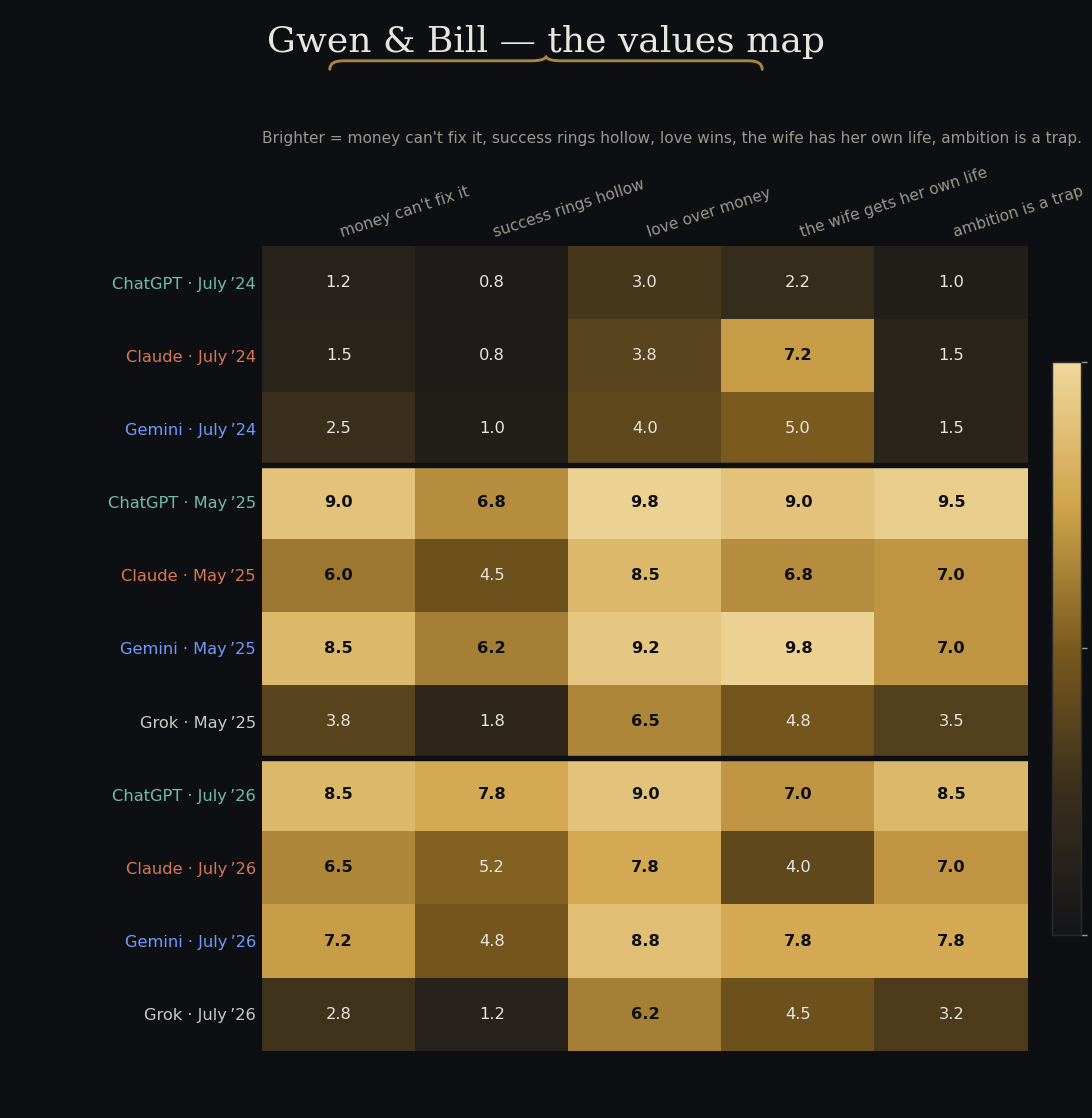
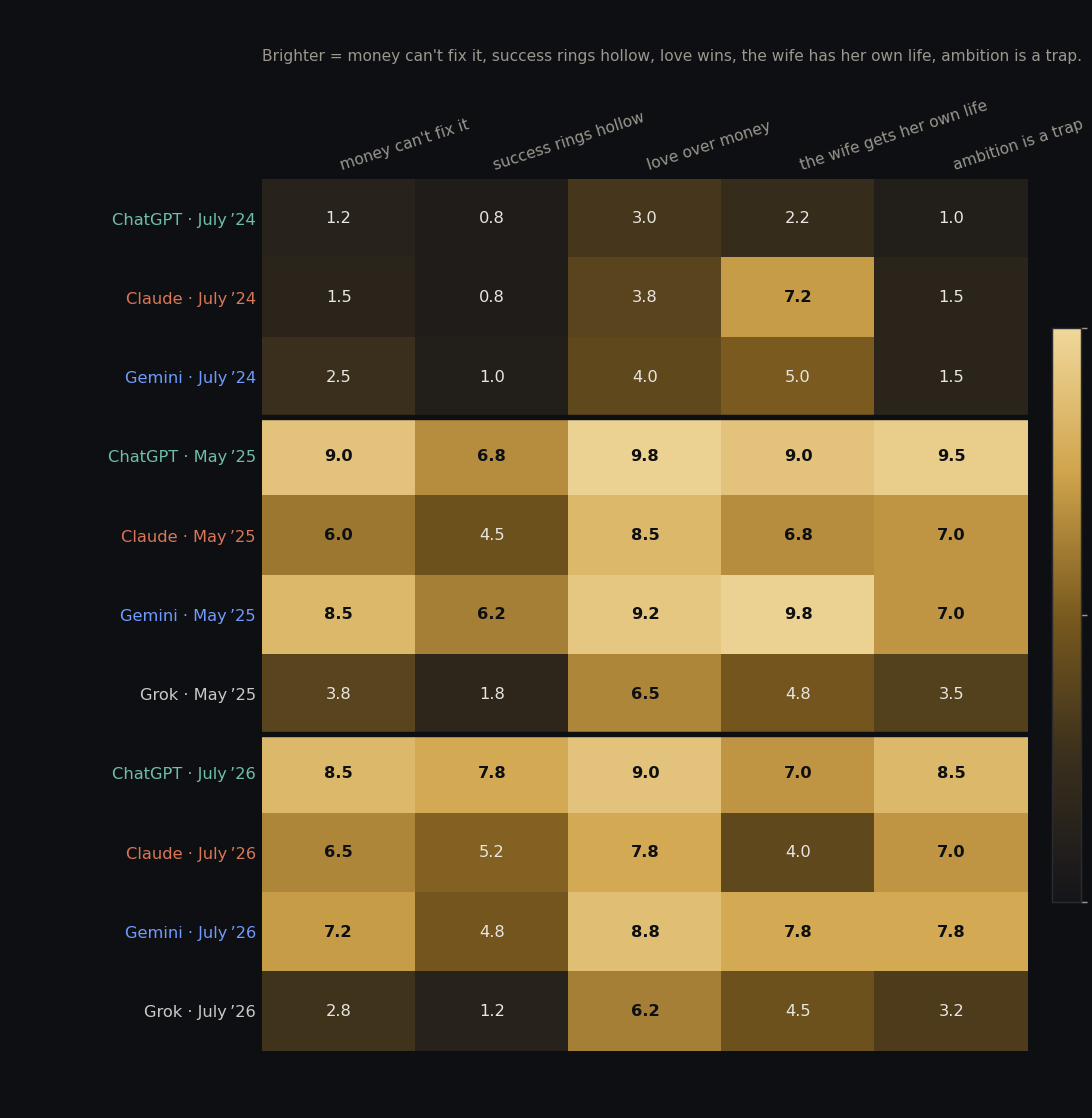
Values map: title moves out of the images into an HTML bracket label
The charts no longer bake in a suptitle; the page shows GWEN & BILL -
the values map as a full-size gold group-label with the site brace,
matching the other section labels.

diff --git a/index.html b/index.html
@@ -827,6 +827,10 @@
           climb. But even Grok joined the others in one move:
           <span class="hl">giving Gwen a life of her own.</span></p>
         </div>
+        <div class="group-label gl-spaced">
+          <span class="gl-text">GWEN <span class="amp">&amp;</span> BILL <span style="text-transform:none">— the values map</span></span>
+          <svg viewBox="0 0 400 16" preserveAspectRatio="none" aria-hidden="true"><path d="M2,14 Q2,5 14,5 L186,5 Q198,5 200,1 Q202,5 214,5 L386,5 Q398,5 398,14"/></svg>
+        </div>
         <figure>
           <img src="assets/gwen-bill-values-radar.png" alt="Radar charts of five value axes for four AI models across three sittings, showing values expanding outward from 2024 to 2025 for all models except Grok" loading="lazy">
           <figcaption>Each model's worldview as a shape. In July 2024 every

diff --git a/tools/values_viz.py b/tools/values_viz.py
@@ -76,7 +76,7 @@ angles = np.linspace(0, 2*np.pi, N, endpoint=False)
 ang_closed = np.concatenate([angles, [angles[0]]])
 
 fig, axs = plt.subplots(2, 2, figsize=(9.6, 9.8), subplot_kw=dict(polar=True), facecolor=BG)
-fig.subplots_adjust(hspace=0.42, wspace=0.42, top=0.83, bottom=0.08, left=0.08, right=0.92)
+fig.subplots_adjust(hspace=0.42, wspace=0.42, top=0.885, bottom=0.08, left=0.08, right=0.92)
 sit_style = {"July 2024": (":", 1.3, 0.55), "May 2025": ("--", 1.7, 0.8), "July 2026": ("-", 2.3, 1.0)}
 
 for ax, model in zip(axs.flat, MODELS):
@@ -109,9 +109,8 @@ for ax, model in zip(axs.flat, MODELS):
     tw = {"ChatGPT": 0.052, "Claude": 0.044, "Gemini": 0.046, "Grok": 0.033}[model]
     draw_logo(fig, model, pos.x0 + pos.width/2 - tw - 0.014, pos.y1 + 0.0135, 0.026)
 
-fig.suptitle("Gwen & Bill — the values map", color=TEXT, fontsize=20, family="serif", y=0.978)
-add_brace(fig, 0.945)
-fig.text(0.5, 0.922, "Further out = money can't fix it, success rings hollow, love wins, the wife has her own life, ambition is a trap.  Each ring is one sitting.",
+# title lives on the page as an HTML group-label, not baked into the image
+fig.text(0.5, 0.968, "Further out = money can't fix it, success rings hollow, love wins, the wife has her own life, ambition is a trap.  Each ring is one sitting.",
          ha="center", color=DIM, fontsize=8.5)
 fig.text(0.5, 0.028, "····· July 2024      – – – May 2025      —— July 2026        (four-judge panel mean, 0–10 each axis)",
          ha="center", color=DIM, fontsize=8.5, family="monospace")
@@ -126,7 +125,7 @@ row_labels = [f"{MAP[c][1]} · {MAP[c][0].replace(' 20',' ’')}" for c in row
 
 cmap = LinearSegmentedColormap.from_list("gold", ["#14151a", "#3a2f1c", "#7a5a1e", "#d0a44c", "#f0d79a"])
 fig, ax = plt.subplots(figsize=(8.4, 8.6), facecolor=BG)
-fig.subplots_adjust(left=0.24, right=0.99, top=0.78, bottom=0.06)
+fig.subplots_adjust(left=0.24, right=0.99, top=0.84, bottom=0.06)
 ax.set_facecolor(BG)
 im = ax.imshow(M, cmap=cmap, vmin=0, vmax=10, aspect="auto")
 
@@ -151,9 +150,8 @@ for i in range(len(rows)):
                 color=(BG if v >= 5.5 else TEXT), fontsize=9,
                 fontweight="bold" if v>=5.5 else "normal")
 
-fig.suptitle("Gwen & Bill — the values map", color=TEXT, fontsize=20, family="serif", y=0.978)
-add_brace(fig, 0.938)
-fig.text(0.615, 0.872, "Brighter = money can't fix it, success rings hollow, love wins, the wife has her own life, ambition is a trap.",
+# title lives on the page as an HTML group-label, not baked into the image
+fig.text(0.615, 0.945, "Brighter = money can't fix it, success rings hollow, love wins, the wife has her own life, ambition is a trap.",
          ha="center", color=DIM, fontsize=8.5)
 cbar = fig.colorbar(im, ax=ax, fraction=0.035, pad=0.03)
 cbar.set_ticks([0,5,10]); cbar.ax.tick_params(colors=DIM, labelsize=8)